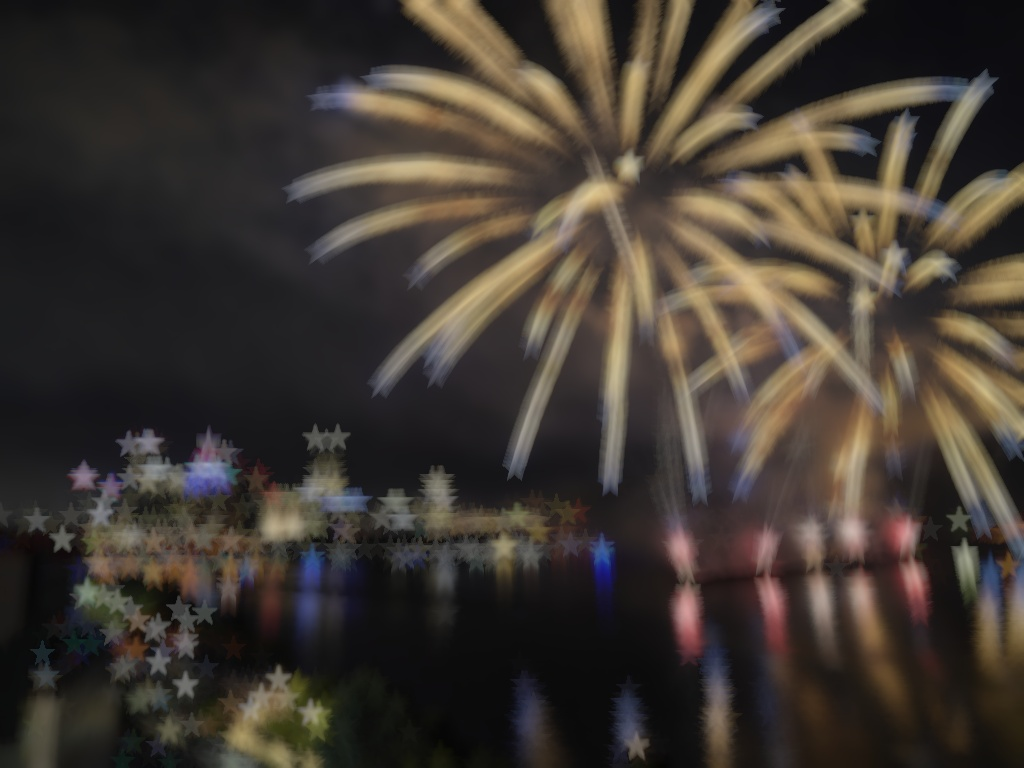
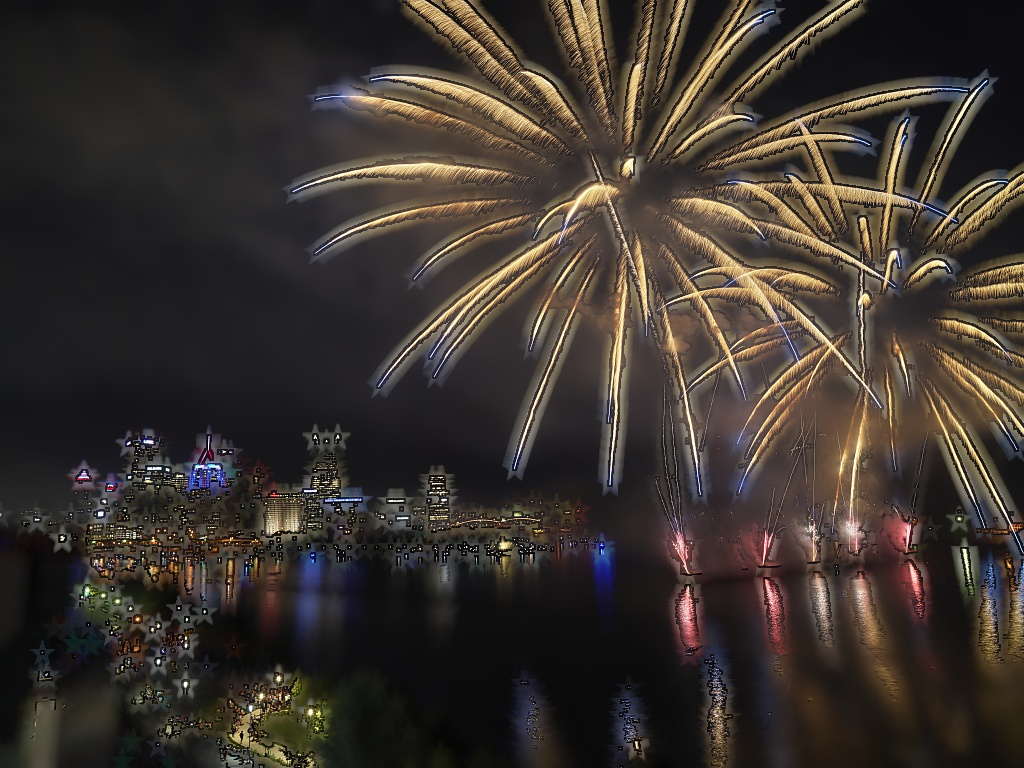
Move bokeh to a function, add masking ability

diff --git a/bokeh.py b/bokeh.py
@@ -3,43 +3,63 @@ import os
 import numpy as np
 import matplotlib.pyplot as plt
 
+def bokeh_blur(image, kernel, mask, gamma=3.3):
+
+    # Mask original image for background and foreground
+    mask_inv = cv2.bitwise_not(mask)
+    image_background = image
+    image_foreground = cv2.bitwise_and(image, image, mask=mask_inv)
+
+    # Convert to linear (gamma correction, as images are stored in sRGB)
+    # 2.2 is the "default" gamma, higher values produce brighter results for
+    # larger radius blur
+    image_linear = np.pow(np.float32(image_background)/255, gamma)
+
+
+    # Generate circular kernel
+    # kernel_size = 51
+    # kernel_radius = int(kernel_size/2)
+    # x,y = np.indices([kernel_size, kernel_size])
+    # x -= kernel_radius
+    # y -= kernel_radius
+    # r = np.sqrt(x**2+y**2)
+
+    # kernel = (np.logical_and(r <= kernel_radius, x >= 0)).astype(float) / (kernel_size*kernel_size)
+
+    # Manipulate kernel to right format
+    kernel = np.float32(kernel) / np.sum(kernel)
+    kernel = np.flip(kernel)
+
+    # Apply Bokeh Filter and mask to result to background
+    image_bokeh_linear = cv2.filter2D(image_linear, ddepth=-1, kernel=kernel)
+    image_bokeh_linear = cv2.bitwise_and(image_bokeh_linear, image_bokeh_linear, mask=mask)
+
+    # Apply inverse gamma correction
+    image_bokeh = np.ubyte(np.pow(image_bokeh_linear, 1/gamma) * 255)
+
+    image_final = cv2.add(image_bokeh, image_foreground)
+    # image_final = image_foreground
+    # image_final = image_bg_painted
+
+    return image_final
+
+
+
+# def __main__():
 # Read Image
 filename = "fireworks"
 file_extension = "jpg"
 image_bgr = cv2.imread(os.path.relpath(f"Input/{filename}.{file_extension}"))
 image_rgb = cv2.cvtColor(image_bgr, cv2.COLOR_BGR2RGB)
 
-# Convert to linear (gamma correction, as images are stored in sRGB)
-# 2.2 is the "default" gamma, higher values produce brighter results for
-# larger radius blur
-gamma = 3.3
-image_linear = np.pow(np.float32(image_rgb)/255, gamma)
+_,image_mask = cv2.threshold(image_rgb[:,:,0], 100, 255, cv2.THRESH_BINARY_INV)
+image_mask = cv2.erode(image_mask, np.ones((5,5)))
 
-
-# Generate circular kernel
-# kernel_size = 51
-# kernel_radius = int(kernel_size/2)
-# x,y = np.indices([kernel_size, kernel_size])
-# x -= kernel_radius
-# y -= kernel_radius
-# r = np.sqrt(x**2+y**2)
-
-# kernel = (np.logical_and(r <= kernel_radius, x >= 0)).astype(float) / (kernel_size*kernel_size)
-
-
-# Generate kernel from file
 kernel_name = "star"
 kernel_file = f"Input/{kernel_name}.png"
-kernel = np.float32(cv2.imread(os.path.relpath(kernel_file), cv2.IMREAD_GRAYSCALE)) / 255
-kernel /= np.sum(kernel)
-kernel = np.flip(kernel)
+kernel = np.float32(cv2.imread(os.path.relpath(kernel_file), cv2.IMREAD_GRAYSCALE))
 
-# Apply Bokeh Filter
-image_bokeh_linear = cv2.filter2D(image_linear, ddepth=-1, kernel=kernel)
-
-# Apply inverse gamma correction
-image_bokeh = np.ubyte(np.pow(image_bokeh_linear, 1/gamma) * 255)
-
+image_bokeh = bokeh_blur(image_rgb, kernel, image_mask)
 
 # Store results to file
 cv2.imwrite(f"Output/{filename}_bokeh_{kernel_name}.{file_extension}", cv2.cvtColor(image_bokeh, cv2.COLOR_RGB2BGR))
